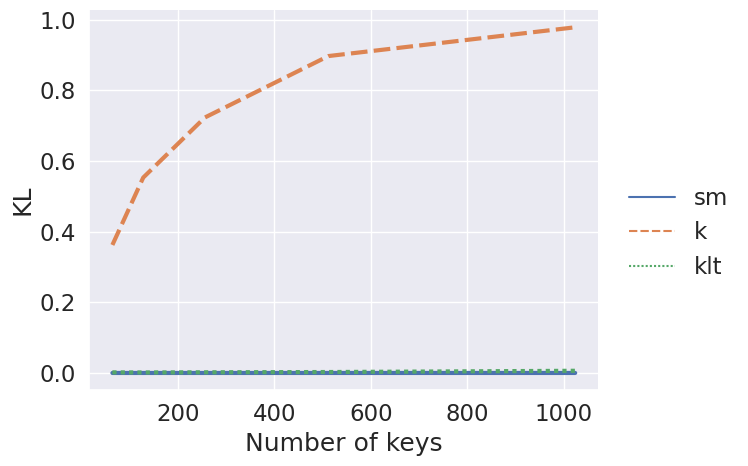
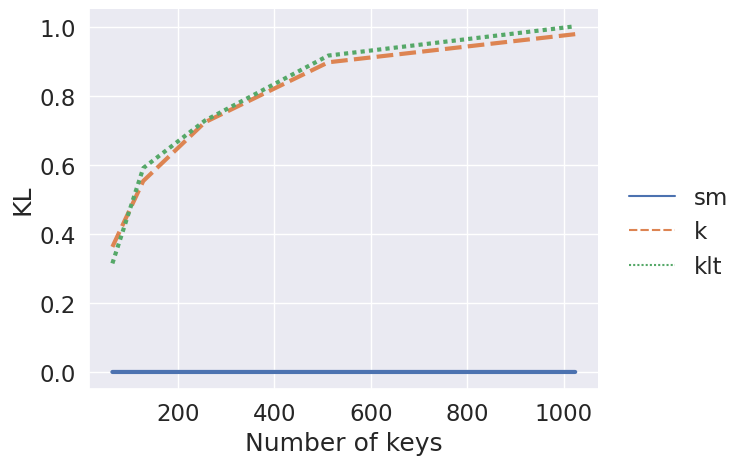
.

diff --git a/cat_tests/test_hyps.py b/cat_tests/test_hyps.py
@@ -255,7 +255,7 @@ def run_fit(
     print(num_starts, num_classes, feature_dim, "l2norm", losses[-1])
     """
 PLOT = False
-#PLOT = True
+PLOT = True
 if PLOT:
     print("Plotting losses")
     def true_dist_sm(num_classes):
